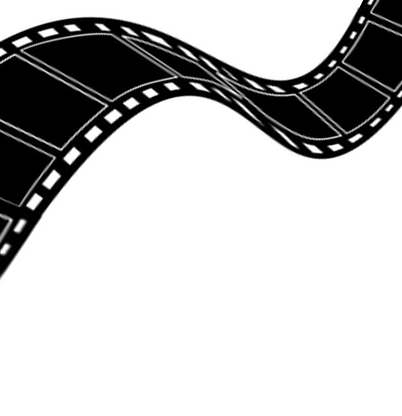
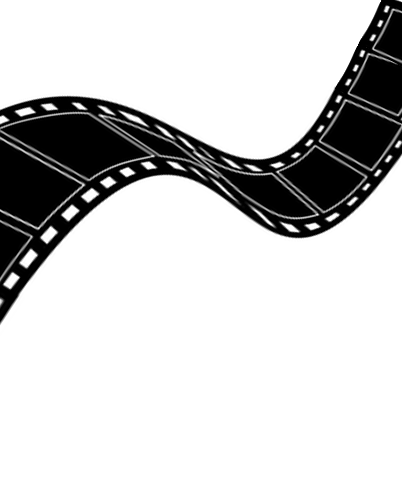
removed header & fixed film strips positions

Changed region(s): [[0.0, 0.0, 1.0, 0.6875]]

diff --git a/frontend/app/index.tsx b/frontend/app/index.tsx
@@ -41,14 +41,14 @@ const styles=StyleSheet.create({
   },
   filmTop: {
     position: 'absolute',
-    top: -65,
+    top: -30,
     left: 0,
     width: '100%',
     height: 575
   },
   filmBottom: {
     position: 'absolute',
-    bottom: -65,
+    bottom: -30,
     left: 0,
     width: '100%',
     height: 575

diff --git a/frontend/app/_layout.tsx b/frontend/app/_layout.tsx
@@ -1,5 +1,5 @@
 import { Stack } from "expo-router";
 
 export default function RootLayout() {
-  return <Stack />;
+  return <Stack screenOptions={{headerShown:false}}/>;
 }
